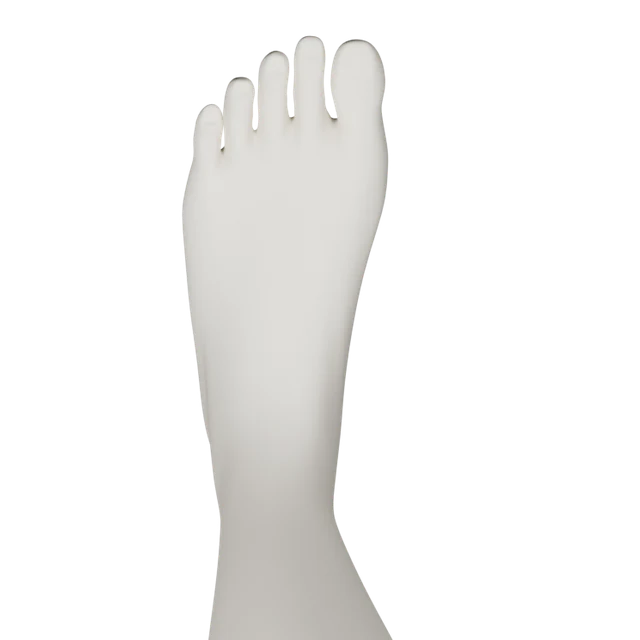
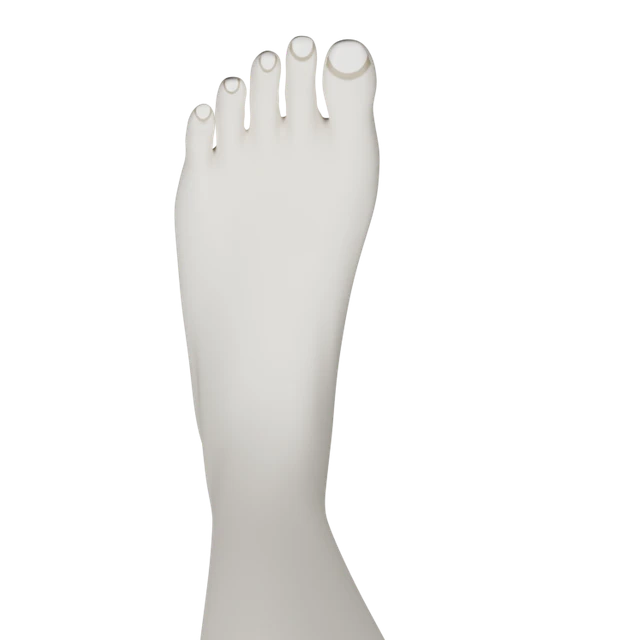
左右判断の手足の甲側に爪を追加

Changed region(s): [[0.25, 0.0312, 0.625, 1.0], [0.5312, 0.8438, 0.5938, 0.9688], [0.5938, 0.9688, 0.625, 1.0]]

diff --git a/scripts/clay_style.py b/scripts/clay_style.py
@@ -14,6 +14,8 @@ except ImportError:
 
 COLORS = {
     "body": "#e9e2d2",
+    "nail": "#fbf8f2",
+    "nail_rim": "#9a8b6e",
     "cloth": "#d9d1bd",
     "phone": "#24523e",
     "screen": "#3d6b55",
@@ -38,7 +40,7 @@ def _mat(kind):
     m.use_nodes = True
     b = m.node_tree.nodes["Principled BSDF"]
     b.inputs["Base Color"].default_value = (*_srgb(COLORS[kind]), 1)
-    b.inputs["Roughness"].default_value = 0.6 if kind in ("phone", "screen") else 0.9
+    b.inputs["Roughness"].default_value = 0.6 if kind in ("phone", "screen") else 0.3 if kind == "nail" else 0.9
     b.inputs["Specular IOR Level"].default_value = 0.2
     _cache[kind] = m
     return m
@@ -67,3 +69,148 @@ def restyle():
             kind = "body"
         o.data.materials.clear()
         o.data.materials.append(_mat(kind))
+        # 爪（mark_nails で頂点に記録した nail_e）は、つやのある明るい色と、まわりの細い縁で見せる
+        if kind == "body" and o.data.attributes.get("nail_e") is not None:
+            o.data.materials.clear()
+            o.data.materials.append(_nail_body_mat())
+
+
+# ---------- 爪 ----------
+# 左右判断の手足の画像では、爪が向きの大事な手がかりになる（2026-10-28 ユーザー指摘）。
+# MakeHuman の人体には関節の目印（頂点グループ joint-l-finger-N-M など）があるので、
+# 第1関節（DIP）から指先までの甲側の面を「爪」にし、そのまわりを「縁」にする。
+
+def _mixed_coords(h):
+    """形のキー（体形の設定）を混ぜた後の頂点の位置。描画される形と同じ"""
+    keys = h.data.shape_keys
+    if not keys:
+        return [v.co.copy() for v in h.data.vertices]
+    basis = keys.reference_key
+    out = [kb.co.copy() for kb in basis.data]
+    for kb in keys.key_blocks:
+        if kb == basis or kb.value == 0 or kb.mute:
+            continue
+        rel = kb.relative_key
+        for i, (a, b) in enumerate(zip(kb.data, rel.data)):
+            out[i] += (a.co - b.co) * kb.value
+    return out
+
+
+def joint_center(h, name, coords=None):
+    from mathutils import Vector
+    coords = coords or _mixed_coords(h)
+    gi = h.vertex_groups[name].index
+    pts = [coords[v.index] for v in h.data.vertices if any(g.group == gi for g in v.groups)]
+    return sum(pts, Vector()) / len(pts)
+
+
+def nail_digits(h, part, side="l"):
+    """part = "hand" / "foot"。各指の (第1関節, 指先) の位置。keep_region などで目印を消す前に呼ぶ"""
+    co = _mixed_coords(h)
+    out = []
+    if part == "hand":
+        for n in range(1, 6):
+            out.append((joint_center(h, f"joint-{side}-finger-{n}-3", co), joint_center(h, f"joint-{side}-finger-{n}-4", co)))
+    else:
+        out.append((joint_center(h, f"joint-{side}-toe-1-2", co), joint_center(h, f"joint-{side}-toe-1-3", co)))
+        for n in range(2, 6):
+            out.append((joint_center(h, f"joint-{side}-toe-{n}-3", co), joint_center(h, f"joint-{side}-toe-{n}-4", co)))
+    return out
+
+
+def _subdivide(h, levels=2):
+    """爪の輪郭をなめらかにするため、先に面を細かく分けておく（体形の設定は混ぜたまま確定する）"""
+    bpy.ops.object.select_all(action="DESELECT")
+    h.select_set(True)
+    bpy.context.view_layer.objects.active = h
+    if h.data.shape_keys:
+        bpy.ops.object.shape_key_remove(all=True, apply_mix=True)
+    m = h.modifiers.new("nail_subd", "SUBSURF")
+    m.levels = levels
+    bpy.ops.object.modifier_apply(modifier=m.name)
+
+
+def _nail_body_mat():
+    """肌（粘土色）に、頂点の値 nail_e（爪の楕円の中=1未満）で爪と縁を描き分ける材質"""
+    m = bpy.data.materials.new("clay_body_nail")
+    m.use_nodes = True
+    nt = m.node_tree
+    b = nt.nodes["Principled BSDF"]
+    b.inputs["Specular IOR Level"].default_value = 0.25
+    att = nt.nodes.new("ShaderNodeAttribute")
+    att.attribute_name = "nail_e"
+    att.attribute_type = "GEOMETRY"
+
+    def ramp(points):
+        r = nt.nodes.new("ShaderNodeValToRGB")
+        cr = r.color_ramp
+        cr.interpolation = "LINEAR"
+        for _ in range(len(cr.elements), len(points)):
+            cr.elements.new(0.5)
+        for el, (pos, col) in zip(cr.elements, points):
+            el.position = pos
+            el.color = col
+        nt.links.new(att.outputs["Fac"], r.inputs["Fac"])
+        return r
+
+    def c(hexcol):
+        return (*_srgb(hexcol), 1)
+
+    # nail_e: 0〜0.86=爪 / 0.92〜1.14=縁 / 1.24〜=肌（値の範囲を 0〜2 → 0〜1 に縮めて使う）
+    mp = nt.nodes.new("ShaderNodeMapRange")
+    mp.inputs["From Min"].default_value = 0.0
+    mp.inputs["From Max"].default_value = 2.0
+    nt.links.new(att.outputs["Fac"], mp.inputs["Value"])
+    col = ramp([(0.0, c(COLORS["nail"])), (0.43, c(COLORS["nail"])), (0.46, c(COLORS["nail_rim"])), (0.57, c(COLORS["nail_rim"])), (0.62, c(COLORS["body"]))])
+    rough = ramp([(0.0, (0.28, 0.28, 0.28, 1)), (0.46, (0.28, 0.28, 0.28, 1)), (0.6, (0.9, 0.9, 0.9, 1))])
+    nt.links.new(mp.outputs["Result"], col.inputs["Fac"])
+    nt.links.new(mp.outputs["Result"], rough.inputs["Fac"])
+    nt.links.new(col.outputs["Color"], b.inputs["Base Color"])
+    nt.links.new(rough.outputs["Color"], b.inputs["Roughness"])
+    return m
+
+
+def mark_nails(h, digits, dorsal, a0=0.8, ha=0.38, width=0.62):
+    """dorsal = 甲の向き（手の甲・足の甲の法線）。頂点ごとに nail_e（爪の楕円の中心=0・輪郭=1・外側ほど大きい）を記録する。
+    爪の形は、指の軸の向き（a: 第1関節=0・指先=1）と横幅（指の太さに対する割合）の楕円。甲側の面だけに付ける。"""
+    from mathutils import Vector
+    _subdivide(h)
+    me = h.data
+    me.update()
+    cos = [v.co.copy() for v in me.vertices]
+    nos = [v.normal.copy() for v in me.vertices]
+    val = [9.0] * len(cos)
+    dorsal = Vector(dorsal).normalized()
+    for dip, tip in digits:
+        axis = tip - dip
+        L = axis.length
+        u = axis / L
+        d0 = (dorsal - u * dorsal.dot(u)).normalized()
+        lat = u.cross(d0)
+        seg = []
+        for i, co in enumerate(cos):
+            v = co - dip
+            a = v.dot(u) / L
+            if -0.2 < a < 1.8:
+                rd, rl = v.dot(d0), v.dot(lat)
+                # 隣の指を含めないよう、指の軸のすぐ近くだけを見る
+                if (rd * rd + rl * rl) ** 0.5 < L * 0.75:
+                    seg.append((i, a, rd, rl))
+        if not seg:
+            continue
+        rs = sorted((rd * rd + rl * rl) ** 0.5 for _, a, rd, rl in seg if 0.3 < a < 0.9)
+        R = rs[int(len(rs) * 0.7)] if rs else L * 0.4
+        # 切り口をふさいだあとに面の表裏が逆になることがあるので、外向きかどうかを確かめて向きをそろえる
+        out = sum(nos[i].dot((d0 * rd + lat * rl).normalized()) for i, a, rd, rl in seg if (rd * rd + rl * rl) > (0.3 * R) ** 2)
+        flip = -1.0 if out < 0 else 1.0
+        for i, a, rd, rl in seg:
+            # 甲側を向いている面だけ（関節の目印の位置は指ごとに少しずれるので、位置ではなく面の向きで決める）
+            if nos[i].dot(d0) * flip < 0.3:
+                continue
+            e = (((a - a0) / ha) ** 2 + (rl / (width * R)) ** 2) ** 0.5
+            if e < val[i]:
+                val[i] = e
+    att = me.attributes.get("nail_e") or me.attributes.new("nail_e", "FLOAT", "POINT")
+    for d, x in zip(att.data, val):
+        d.value = min(x, 2.0)
+    return sum(1 for x in val if x < 1)

diff --git a/scripts/laterality-images/render_limbs.py b/scripts/laterality-images/render_limbs.py
@@ -6,7 +6,7 @@ blender -b -P render_parts.py -- <out_dir> <skin_name>
 import bpy, bmesh, sys, os, math
 from mathutils import Vector
 sys.path.insert(0, os.path.join(os.path.dirname(os.path.abspath(__file__)), '..'))
-from clay_style import HumanService, LocationService, restyle  # 粘土の人形風（../clay_style.py）
+from clay_style import HumanService, LocationService, restyle, nail_digits, mark_nails  # 粘土の人形風（../clay_style.py）
 
 argv = sys.argv[sys.argv.index("--") + 1:]
 OUT, SKIN = argv[0], argv[1]
@@ -117,6 +117,7 @@ def smooth(h, levels=2):
 
 def limb(name, proximal_joint, margin, radius, ortho):
     h = build()
+    _digits = nail_digits(h, "hand")
     shoulder = jc(h, "joint-l-shoulder")
     elbow = jc(h, "joint-l-elbow")
     wrist = jc(h, "joint-l-hand")
@@ -127,6 +128,7 @@ def limb(name, proximal_joint, margin, radius, ortho):
     prox = {"elbow": elbow, "shoulder": shoulder}[proximal_joint]
     axis = (tip - prox).normalized()
     keep_region(h, lambda c: c.x > 0.12 and (c - prox).dot(axis) > -margin and seg_dist(c, prox, tip) < radius)
+    mark_nails(h, _digits, n)  # 甲側に爪
     smooth(h)
     setup_render()
     center = prox + (tip - prox) * 0.5
@@ -140,6 +142,7 @@ limb("forearm", "elbow", 0.02, 0.09, 0.56)
 def upper_limb(ortho=0.86):
     """腕全体: 姿勢は変えず(手のひらは下向き)、腕の軸に直角な方向から、手の甲側・手のひら側を描く"""
     h = build()
+    _digits = nail_digits(h, "hand")
     shoulder = jc(h, "joint-l-shoulder")
     wrist = jc(h, "joint-l-hand")
     tip = jc(h, "joint-l-finger-3-4")
@@ -154,6 +157,7 @@ def upper_limb(ortho=0.86):
         # 肩→ひじ→手首→指先の折れ線からの距離(腕はひじで少し折れているため)
         return min(seg_dist(c, shoulder, elbow), seg_dist(c, elbow, wrist), seg_dist(c, wrist, tip))
     keep_region(h, lambda c: c.x > 0.12 and (c - shoulder).dot(axis) > cut and near_arm(c) < 0.1)
+    mark_nails(h, _digits, n)  # 甲側に爪
     smooth(h)
     setup_render()
     center = shoulder + (tip - shoulder) * 0.58

diff --git a/scripts/laterality-images/render_feet.py b/scripts/laterality-images/render_feet.py
@@ -6,7 +6,7 @@ blender -b -P render_parts.py -- <out_dir> <skin_name>
 import bpy, bmesh, sys, os, math
 from mathutils import Vector
 sys.path.insert(0, os.path.join(os.path.dirname(os.path.abspath(__file__)), '..'))
-from clay_style import HumanService, LocationService, restyle  # 粘土の人形風（../clay_style.py）
+from clay_style import HumanService, LocationService, restyle, nail_digits, mark_nails  # 粘土の人形風（../clay_style.py）
 
 argv = sys.argv[sys.argv.index("--") + 1:]
 OUT, SKIN = argv[0], argv[1]
@@ -126,11 +126,13 @@ shoot(center, Vector((0, 0, -1)), fwd_dir, 1.2, "foot-plantar.png", 0.36)
 
 # 足の甲: すねを長めに残し、つま先の前・斜め上から見る(すねは画面の上へ抜ける)
 h2 = build()
+_digits = nail_digits(h2, "foot")
 setup_render()
 keep_region(h2, lambda c: c.x > 0.05 and (c - ankle).dot(leg) > -0.4 and (c - ankle).length < 0.6)
 smooth(h2)
 view = (fwd_dir * 0.55 + Vector((0, 0, 1))).normalized()
 target = ankle + (toe - ankle) * 0.35
 target.z = ankle.z * 0.6 + 0.02
+mark_nails(h2, _digits, Vector((0, 0, 1)))  # 甲側に爪
 shoot(target, view, Vector((0, 0, 1)), 1.4, "foot-dorsal.png", 0.34)
 print("DONE")

diff --git a/scripts/laterality-images/render_legs.py b/scripts/laterality-images/render_legs.py
@@ -6,7 +6,7 @@ blender -b -P render_parts.py -- <out_dir> <skin_name>
 import bpy, bmesh, sys, os, math
 from mathutils import Vector
 sys.path.insert(0, os.path.join(os.path.dirname(os.path.abspath(__file__)), '..'))
-from clay_style import HumanService, LocationService, restyle  # 粘土の人形風（../clay_style.py）
+from clay_style import HumanService, LocationService, restyle, nail_digits, mark_nails  # 粘土の人形風（../clay_style.py）
 
 argv = sys.argv[sys.argv.index("--") + 1:]
 OUT, SKIN = argv[0], argv[1]
@@ -117,6 +117,7 @@ def smooth(h, levels=2):
 
 def leg(name, whole, ortho):
     h = build()
+    _digits = nail_digits(h, "foot")
     hip = jc(h, "joint-l-upper-leg")
     knee = jc(h, "joint-l-knee")
     ankle = jc(h, "joint-l-ankle")
@@ -135,6 +136,7 @@ def leg(name, whole, ortho):
             return min(seg_dist(c, knee, ankle), seg_dist(c, ankle, toe), seg_dist(c, ankle, heel_floor))
         radius = 0.09
     keep_region(h, lambda c: c.x > 0.03 and (c - cut_from).dot(axis) > cut and near(c) < radius)
+    mark_nails(h, _digits, Vector((0, 0, 1)))  # 甲側に爪
     smooth(h)
     setup_render()
     top = cut_from + axis * cut

diff --git a/scripts/laterality-images/render_parts.py b/scripts/laterality-images/render_parts.py
@@ -6,7 +6,7 @@ blender -b -P render_parts.py -- <out_dir> <skin_name>
 import bpy, bmesh, sys, os, math
 from mathutils import Vector
 sys.path.insert(0, os.path.join(os.path.dirname(os.path.abspath(__file__)), '..'))
-from clay_style import HumanService, LocationService, restyle  # 粘土の人形風（../clay_style.py）
+from clay_style import HumanService, LocationService, restyle, nail_digits, mark_nails  # 粘土の人形風（../clay_style.py）
 
 argv = sys.argv[sys.argv.index("--") + 1:]
 OUT, SKIN = argv[0], argv[1]
@@ -104,6 +104,7 @@ def shoot(target, normal, up, dist, name, ortho):
 
 # ---------- 手 ----------
 h = build()
+_digits = nail_digits(h, "hand")
 wrist = jc(h, "joint-l-hand")
 elbow = jc(h, "joint-l-elbow")
 tip = jc(h, "joint-l-finger-3-4")
@@ -117,6 +118,7 @@ keep_region(h, lambda c: c.x > 0.15 and (c - wrist).dot(arm) > -0.05 and (c - ha
 center = wrist + (tip - wrist) * 0.45
 setup_render()
 up = (tip - wrist).normalized()
+mark_nails(h, _digits, n)  # 甲側に爪
 shoot(center, n, up, 1.0, "hand-a.png", 0.32)
 shoot(center, -n, up, 1.0, "hand-b.png", 0.32)
 print("HAND", tuple(wrist), tuple(tip), tuple(n))

diff --git a/HANDOFF.md b/HANDOFF.md
@@ -1,3 +1,9 @@
+## 2026-10-28 Claude → ユーザー｜左右判断の手足に爪を追加
+- 状態: 未着手
+- やったこと: 爪がないと左右の判断が難しすぎるため（ユーザー指摘）、甲側が写る画像（手の甲・前腕・腕全体・足の甲・すね・脚全体の前から）に爪と縁を付けた。手のひら・足の裏・内側からの画像は変えていない。処理は scripts/clay_style.py の nail_digits / mark_nails（関節の目印から第1関節〜指先の甲側に楕円の爪）
+- 次にやること: 画面を確認 → GitHub Desktop で push
+- 関連ファイル: scripts/clay_style.py, scripts/laterality-images/*.py, public/images/laterality/
+
 ## 2026-10-28 Claude → ユーザー｜人物を「粘土の人形風」に統一
 - 状態: 未着手
 - やったこと:
